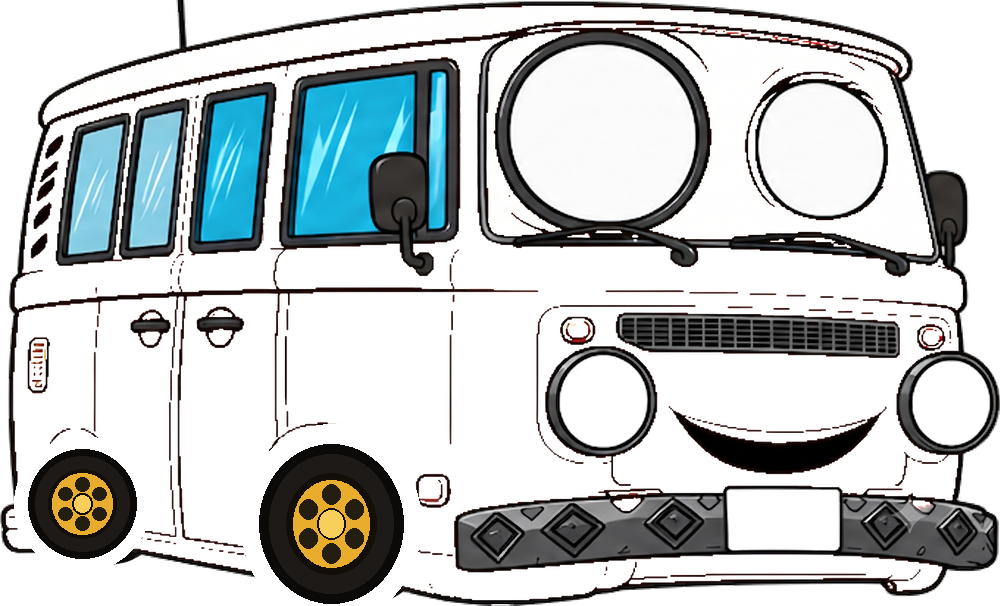
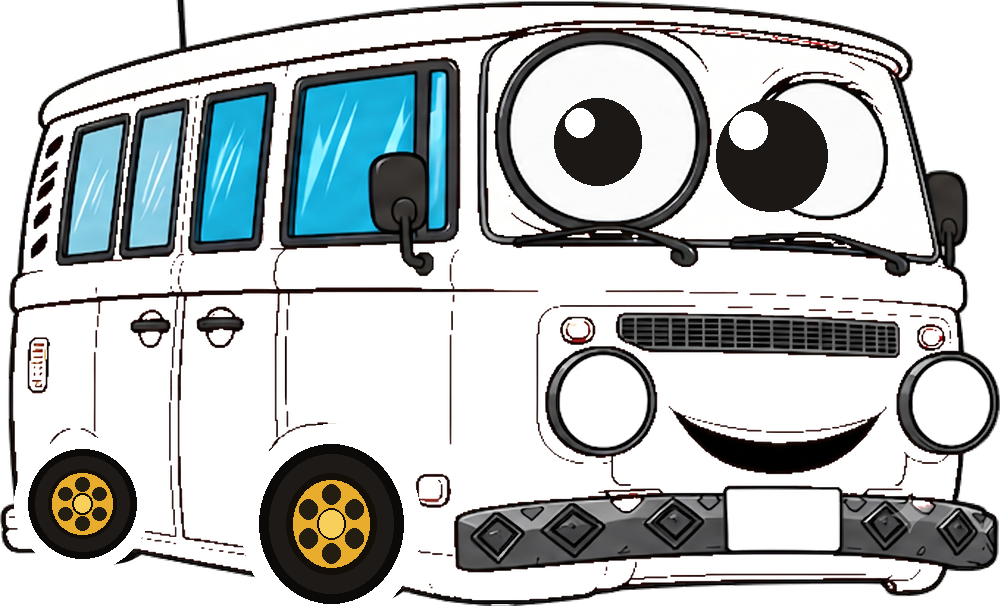
Tro tro + Garage fixes
- Add cartoon pupils to the gameplay bus eyes (were blank white circles).
- Garage: retire rim/roof cosmetics (wheels are baked gold) so no more 'Silver
  equipped' while the wheels are gold; rename default kente 'Classic' -> 'None'.
- Cosmetic item cards full-width + single-line labels (no more wrapping under).

Changed region(s): [[0.713, 0.1485, 0.837, 0.3564], [0.527, 0.1485, 0.651, 0.3267]]

diff --git a/app/lib/data/trotro_cosmetics.dart b/app/lib/data/trotro_cosmetics.dart
@@ -22,8 +22,9 @@ const Set<String> kDefaultOwned = {
   'horn_vroom',
 };
 
-/// Ordered category keys and their display labels.
-const List<String> kCosmeticCategories = ['rim', 'kente', 'roof', 'horn'];
+/// Ordered category keys and their display labels. Rim/roof are retired for the
+/// gameplay bus (its cartoon wheels are baked in), so only trim + horn show.
+const List<String> kCosmeticCategories = ['kente', 'horn'];
 const Map<String, String> kCategoryLabel = {
   'rim': 'Rims',
   'kente': 'Kente trim',
@@ -45,7 +46,7 @@ const List<ShopItem> kCosmetics = [
       id: 'rim_charcoal', category: 'rim', name: 'Charcoal', costShards: 6),
   // Kente trim
   ShopItem(
-      id: 'kente_classic', category: 'kente', name: 'Classic', costShards: 0),
+      id: 'kente_classic', category: 'kente', name: 'None', costShards: 0),
   ShopItem(
       id: 'kente_goldgreen',
       category: 'kente',

diff --git a/app/lib/screens/customization_shop_screen.dart b/app/lib/screens/customization_shop_screen.dart
@@ -226,7 +226,7 @@ class _ItemCard extends StatelessWidget {
       ]);
     }
 
-    final width = (MediaQuery.of(context).size.width - 16 * 2 - 10) / 2;
+    final width = MediaQuery.of(context).size.width - 16 * 2;
     return GestureDetector(
       onTap: onTap,
       child: Container(
@@ -243,6 +243,8 @@ class _ItemCard extends StatelessWidget {
           children: [
             Expanded(
               child: Text(item.name,
+                  maxLines: 1,
+                  overflow: TextOverflow.ellipsis,
                   style: const TextStyle(
                       fontSize: 14, fontWeight: FontWeight.w700, color: ink)),
             ),